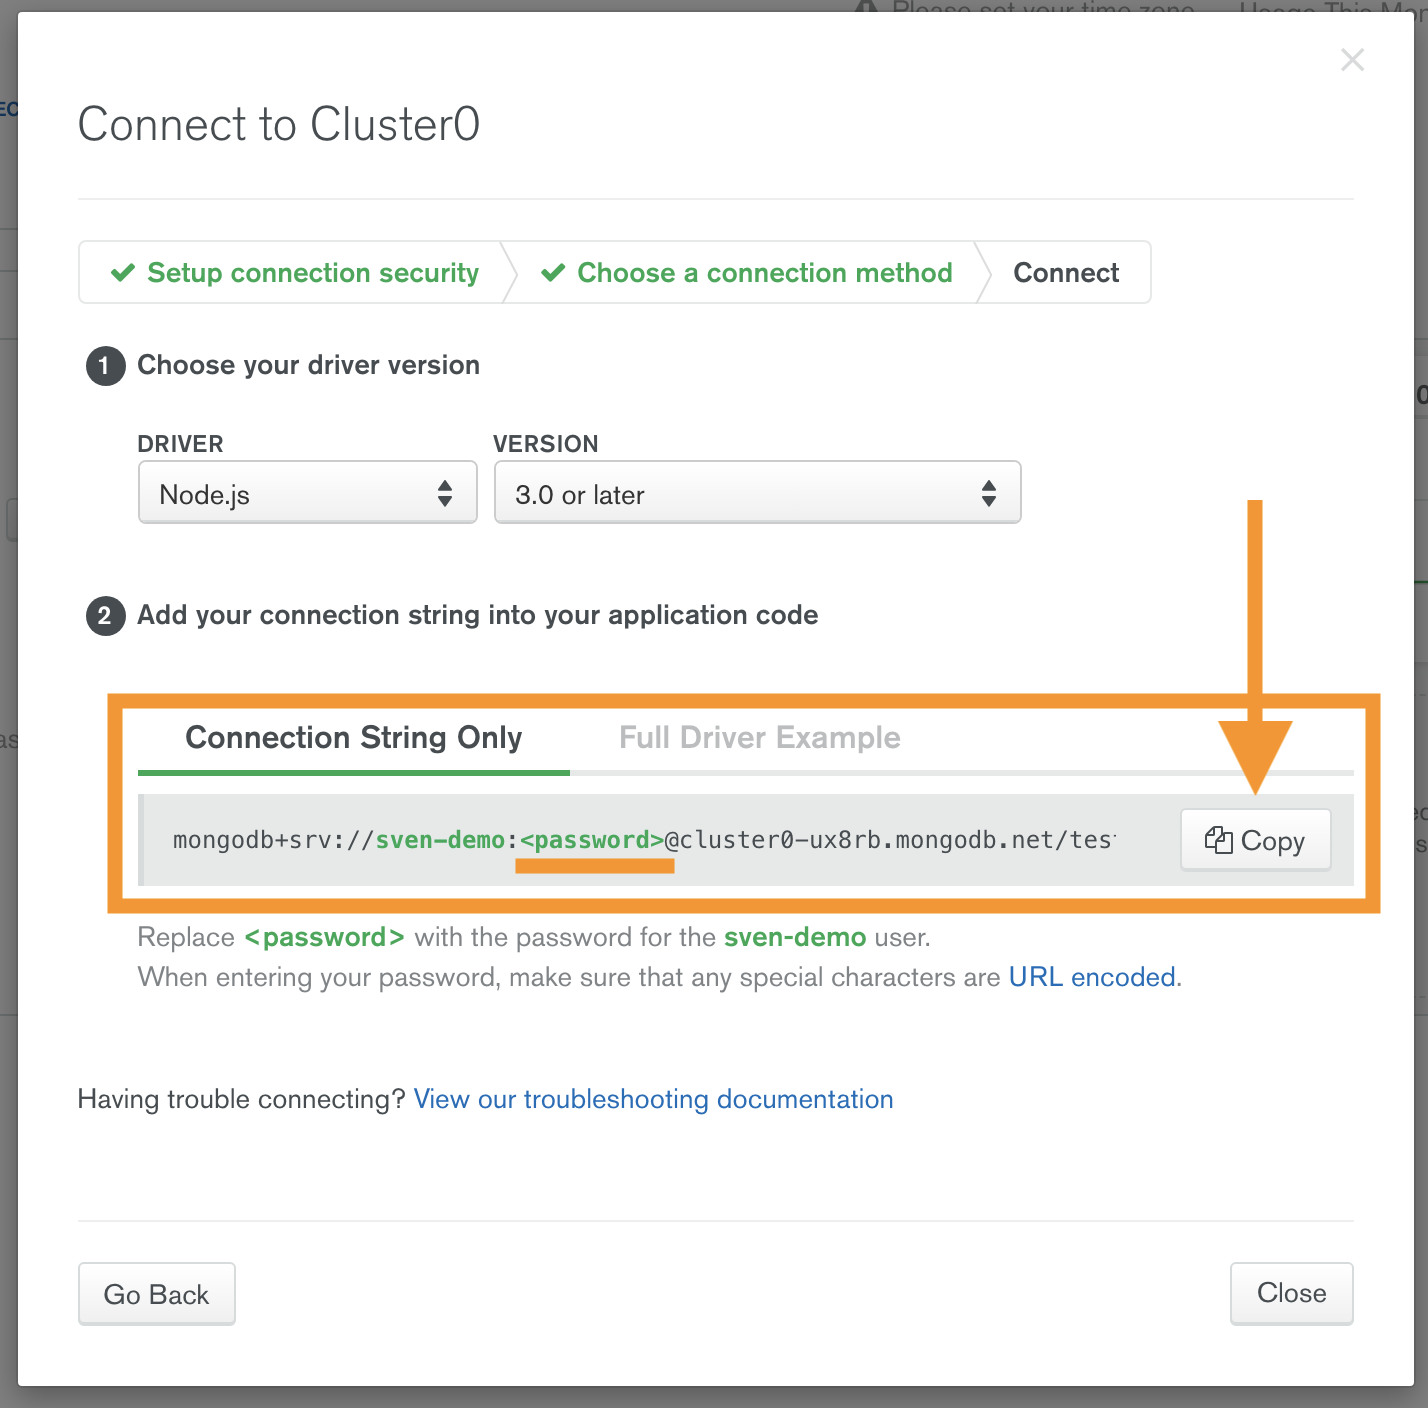
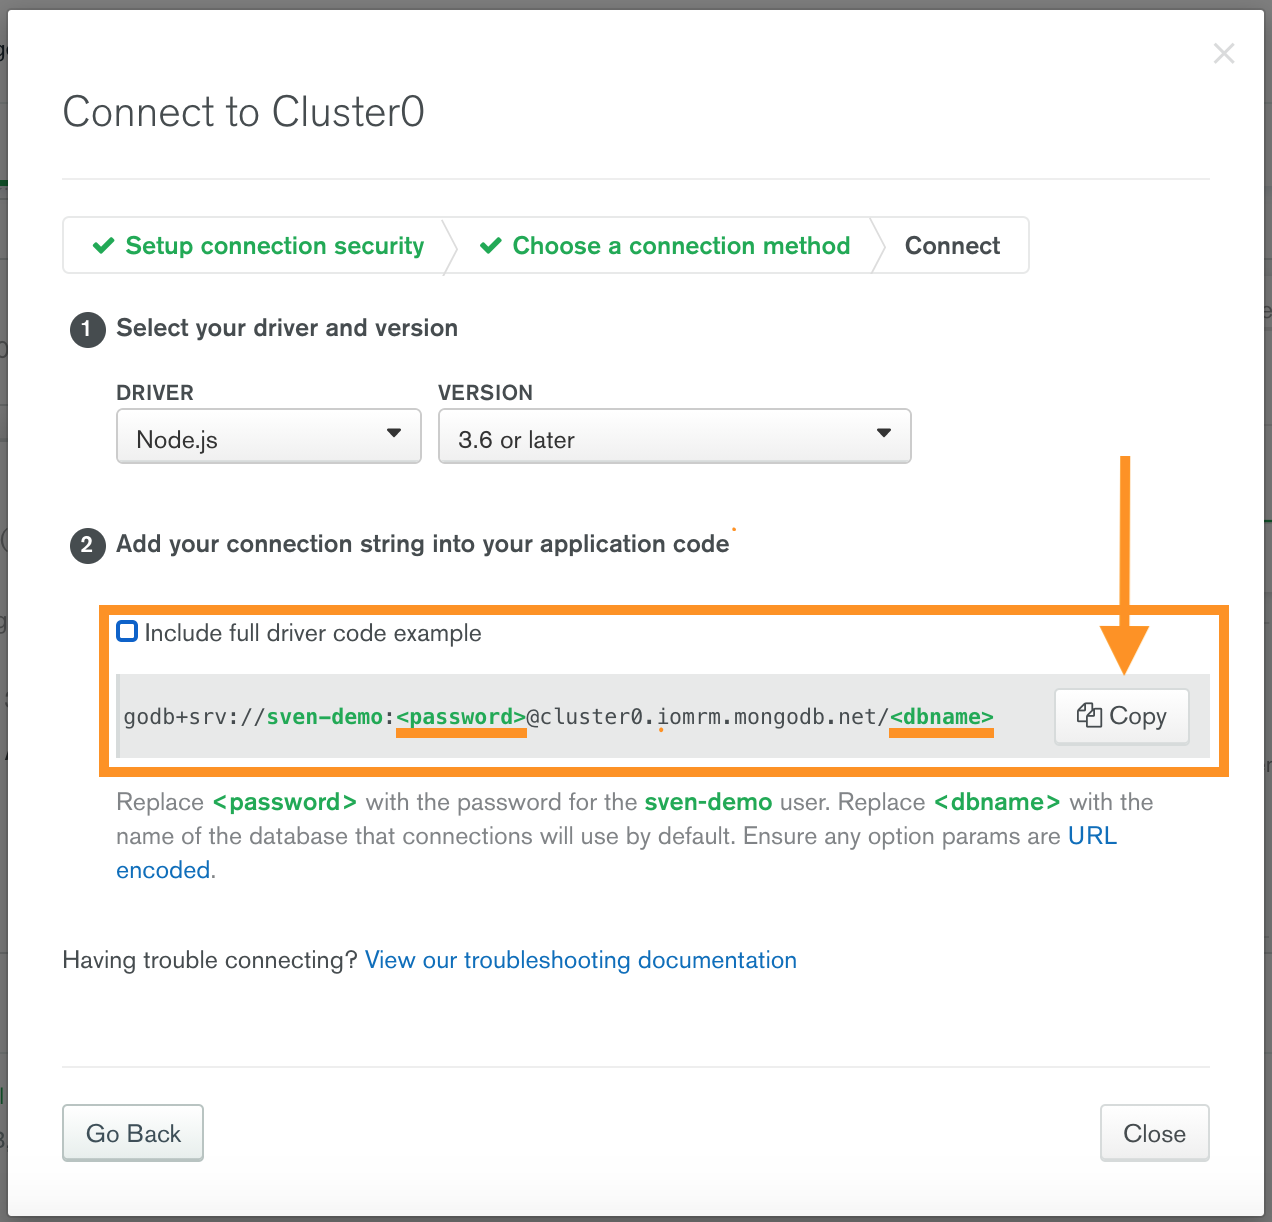
Update documentation on MongoDB Atlas setup

diff --git a/docs/guides/get-started/mongodb-atlas.md b/docs/guides/get-started/mongodb-atlas.md
@@ -50,8 +50,9 @@ Now it's time to select your connection method. For your case select the "Connec
 
 ![MongoDB Atlas Cluster Connection Method](/img/guides/mongodb-atlas/mongodb-atlas-connection-method.png)
 
-This will present you with a connection string. You want to copy that string and replace `<password>` with the password you assigned to your MongoDB user.
+This will present you with a connection string. You want to copy that string and replace `<password>` with the password you assigned to your MongoDB user while you
+replace `<dbname>` with the name of the default database that connections will use.
 
 ![MongoDB Atlas Cluster Connection Method](/img/guides/mongodb-atlas/mongodb-atlas-connection-string.png)
 
-At this point you can close this window and paste the connection string into the `.env.json` file in your webiny project folder. Just make sure you've replaced the `<password>`.
+At this point you can close this window and paste the connection string into the `.env.json` file in your Webiny project folder. Just make sure you've replaced the `<password>` and `<dbname>`.
